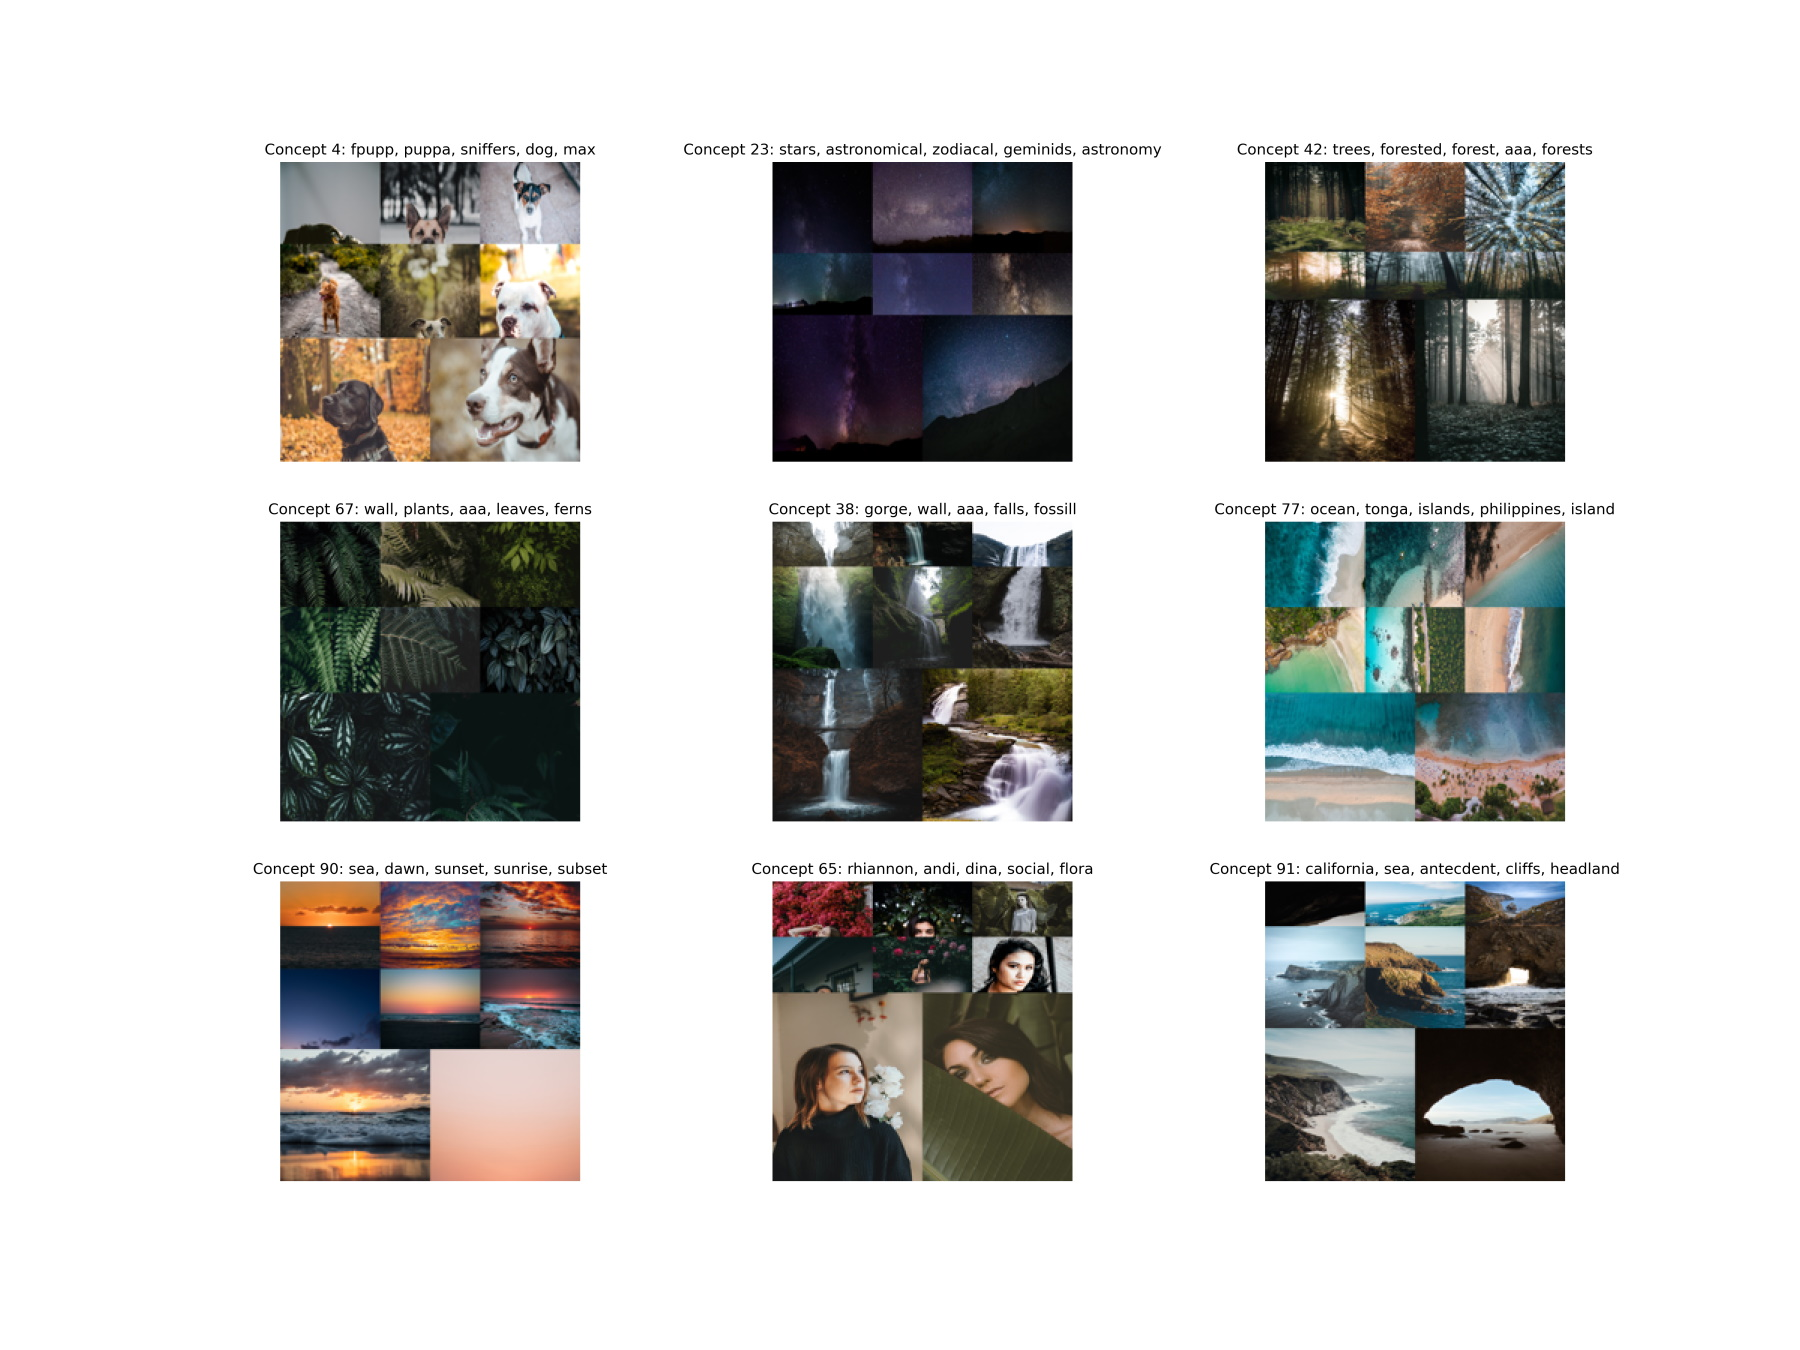
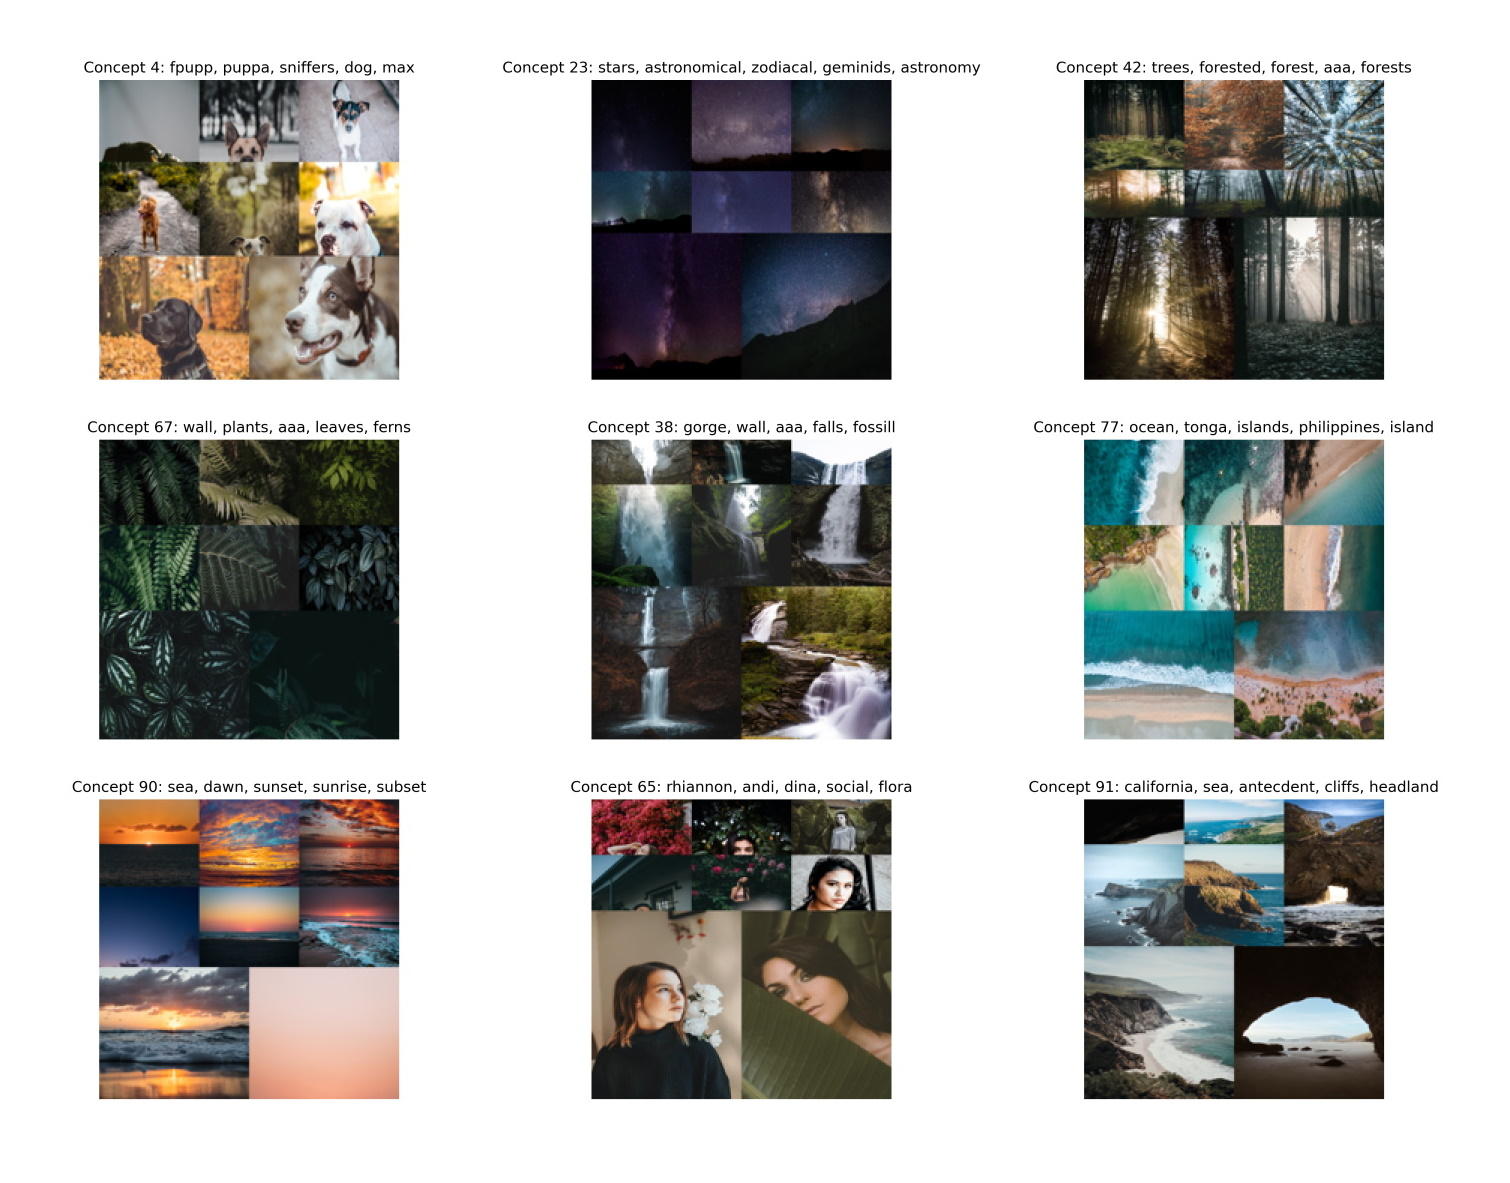
Update Readme

diff --git a/README.md b/README.md
@@ -4,7 +4,7 @@
 
 # Concept
 
-<img src="images/logo.png" width="35%" height="35%" align="right" />
+<img src="images/logo.png" width="25%" height="25%" align="right" />
 
 Concept is a technique that leverages CLIP and BERTopic-based techniques to perform Concept Modeling on images.
 
@@ -64,7 +64,7 @@ concepts = concept_model.fit_transform(images)
 
 The resulting concepts can be visualized through `concept_model.visualize_concepts()`:
 
-<img src="images/concepts_without_topics.jpg" width="60%" height="60%" align="center" />
+<img src="images/concepts_without_topics.jpg" width="100%" height="100%" align="center" />
 
 However, to get the full experience, we need to label the concept clusters with topics. To do this, 
 we need to create a vocabulary: 
@@ -90,6 +90,6 @@ concepts = concept_model.fit_transform(images, docs=words)
 Again, the resulting concepts can be visualized. This time however, we can also see the generated topics 
 through `concept_model.visualize_concepts()`:
 
-<img src="images/concepts.jpg" width="60%" height="60%" align="center" />
+<img src="images/concepts.jpg" width="100%" height="100%" align="center" />
 
 **NOTE**: Use `Concept(embedding_model="clip-ViT-B-32-multilingual-v1")` to select a model that supports 50+ languages. 
